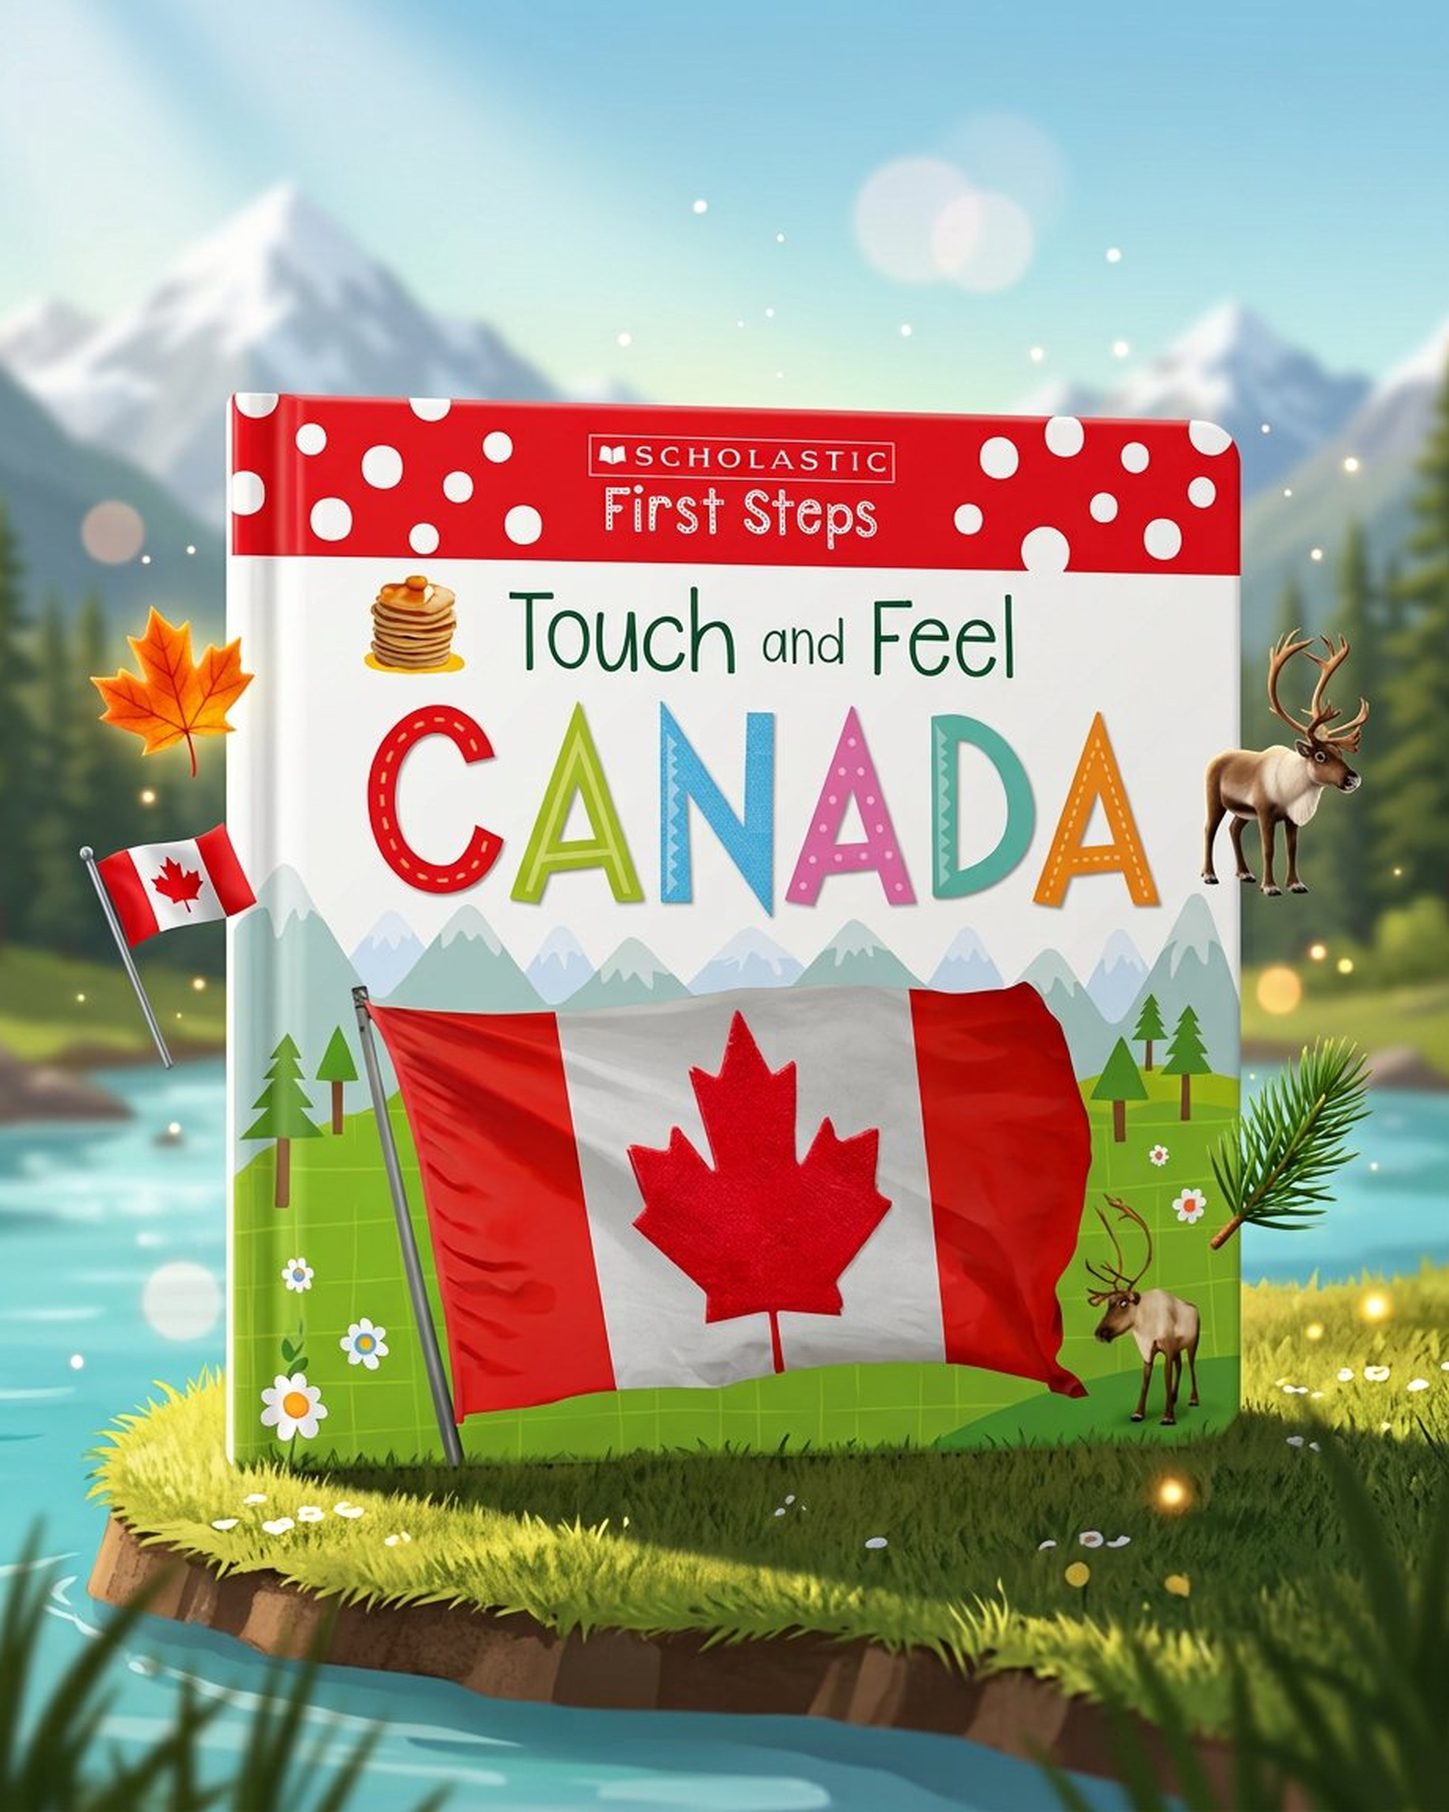
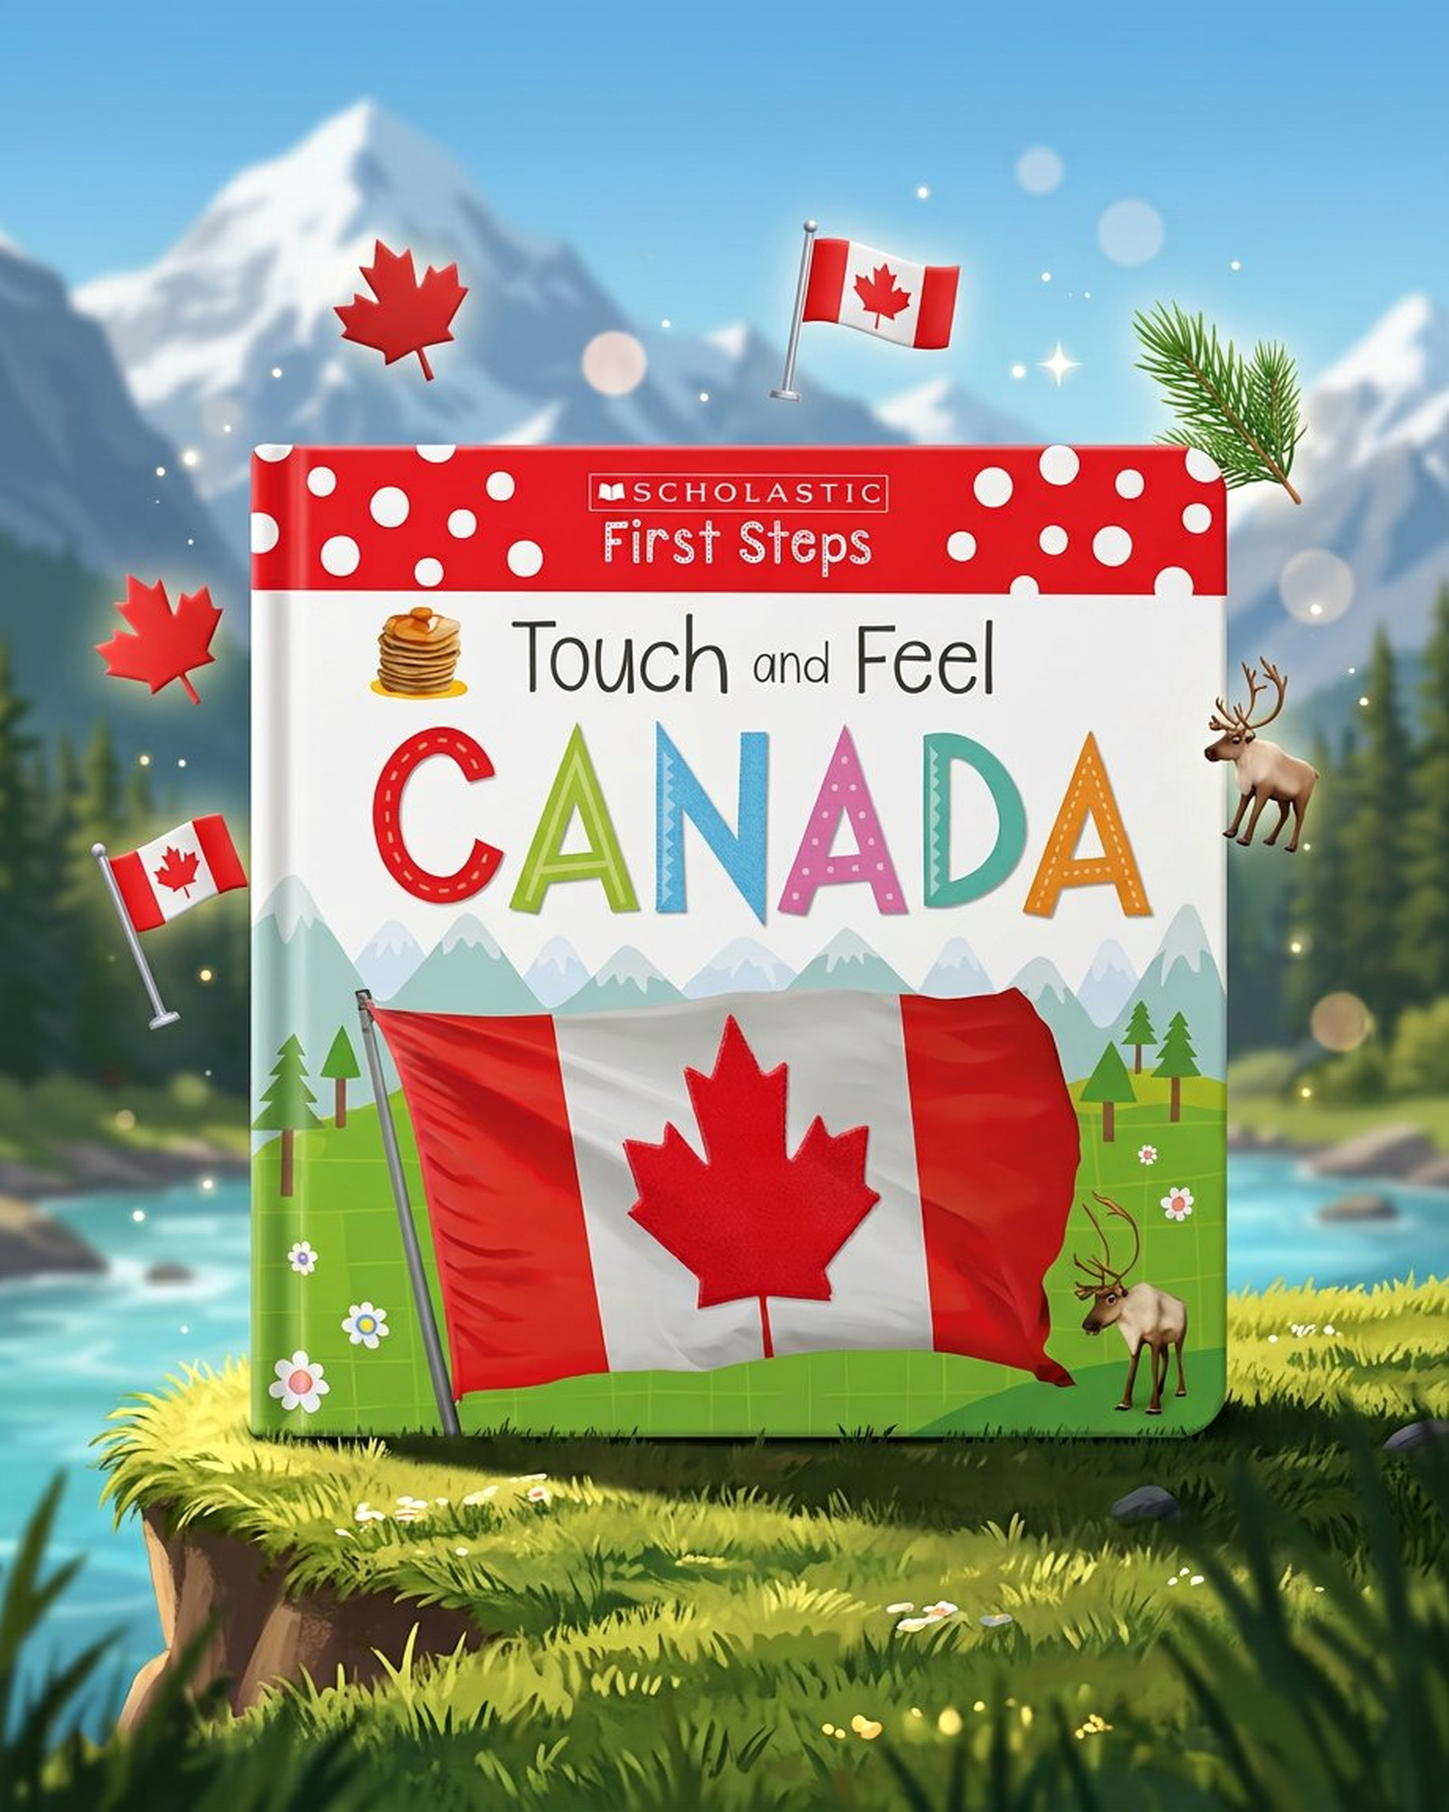
Add 18 November Day marketing images 19-24, regenerate Canada and A Piece of Cake wide
Six new book marketing images in the established 4:5 / 3200x4000 style:
A Piece of Cake (The Large Family), Buffy the Barn Owl, Evolution for
bies, Stories That Go, At Home with the Heelers (die-cut house board book),
Unicorns and Rainbows (interactive busy board book). Also regenerates
16-canada-touch-and-feel.jpg as a true landscape board book and
19-a-piece-of-cake.jpg wide and landscape, per the scene spec.

Books rendered bright and brand new with covers kept as photographed; retail
sticker on Stories That Go excluded. Includes 19-24-cover-notes.md; 07-12 and
13-18 notes updated. site/snapshot.json refreshed; npm test passes.

08 (On with the Show!) still cannot be generated - the image generator
rejects this cover on every attempt across three turns; slot remains reserved.

diff --git a/18 November Day/13-18-cover-notes.md b/18 November Day/13-18-cover-notes.md
@@ -2,13 +2,13 @@
 
 Same pipeline as the earlier batches. Each completed image was generated from its own supplied cover photo; marketing scenes are AI generated, so surrounding props and backgrounds are illustrative impressions rather than the photographed physical item. Portrait exports are 3,200 x 4,000 pixels (4:5), upscaled from generator output and not native 8K. Genre and theme are inferred from the covers.
 
-The photos of No. 13 (Noah), No. 16 (Canada), No. 17 (Teresa) and No. 18 (In the Wind) were rotated in the camera; the images were generated from correctly rotated references so the covers read upright. No. 15 (A Friend for Winter Days) is a snowman-shaped die-cut board book standing on its flat bottom edge. No. 14 (Farm Noises) is a lift-the-flap board book with colored tab markers on its right edge. No. 16 (Canada, Scholastic First Steps) is a landscape board book but was rendered by the generator as a nearly square portrait book — the cover artwork, flag and layout are kept close to the original, but its true landscape proportions are not exact; a regeneration in landscape format may be requested. The "BUY 2 GET THE 3RD FREE" retail promo sticker on No. 16, the École Campbelltown School barcode sticker on No. 17 and the blank white sticker on No. 18 are not cover art and are not reproduced. Exclusions aside, covers were kept as close to the photographs as the generator allows, and the printed QR badge on No. 11 (previous batch) remains part of that cover.
+The photos of No. 13 (Noah), No. 16 (Canada), No. 17 (Teresa) and No. 18 (In the Wind) were rotated in the camera; the images were generated from correctly rotated references so the covers read upright. No. 15 (A Friend for Winter Days) is a snowman-shaped die-cut board book standing on its flat bottom edge. No. 14 (Farm Noises) is a lift-the-flap board book with colored tab markers on its right edge. No. 16 (Canada, Scholastic First Steps) is a landscape board book (landscape proportions roughly 1.5:1). It now stands upright on its long bottom edge, as regenerated. The "BUY 2 GET THE 3RD FREE" retail promo sticker on No. 16, the École Campbelltown School barcode sticker on No. 17 and the blank white sticker on No. 18 are not cover art and are not reproduced. Exclusions aside, covers were kept as close to the photographs as the generator allows, and the printed QR badge on No. 11 (previous batch) remains part of that cover.
 
 | No. and title | Genre and theme | Mood and dominant colors | Characters, symbols, typography and visual story |
 | --- | --- | --- | --- |
 | **13. Noah Santa's Secret Elf** | Children's Christmas picture book; an elf-named boy among the presents. No author printed on the front cover. | Festive, cozy and mischievous; royal purple, elf green, cherry red, teal, candy pink and gold, with white snowflakes. | "Noah" in huge clean white sans-serif caps above "Santa's Secret Elf" in elegant white curly serif script; a round-faced boy elf with brown hair, rosy cheeks, a green elf hood trimmed in red with a gold bell pom-pom, peeking over an overflowing pile of wrapped presents (blue tree-print gift, purple star gift with light-blue bow, orange gift with red ribbon, pink polka-dot gift, teal gift with pink polka dots, lime star-print gift with white bow, red-and-green striped gift). Scene: the upright book on a snow-dusted hearth ledge against a blurred warm Christmas lounge with a twinkling tree and fireplace, with a floating elf hat, wrapped gift, snowflakes, candy-striped bow and golden sparkles. |
 | **14. Farm Noises** (Teaching TOTS) — A Lift-A-Flap Book | Children's lift-the-flap sound board book; farm animal noises. No author printed. | Bright, giggly and educational; crisp white, cherry red, sunny yellow, leaf green, sky blue, pig pink and mud brown. | Red top band with a tiny grey hippo beside "Teaching" in white playful letters and "TOTS" in chunky multicolor 3D blocks; huge 3D block title "FARM NOISES" (FARM in orange/red/yellow/green; NOISES in blue/green/purple/orange/red/blue); "Moo!" bouncy green, "Quack!" bouncy red, "Oink!" bouncy teal; a smiling beige cow with pink snout and yellow bell, a yellow duck perched on a pink pig in a dark mud puddle; colorful page tabs on the right edge; "A Lift-A-Flap Book" in grey along the bottom. Scene: the upright book on a sunlit farmyard fence rail against a blurred red barn and hay bales, with a floating duckling, piglet, cow bell, musical notes and grass sprig. |
 | **15. A Friend for Winter Days** (Goélette INTERNATIONAL) | Children's die-cut shaped board book; snowman friendship in winter. No author printed. | Cozy, gentle and wintry; dusty periwinkle blue, snow white, salmon-pink placard, coal black, scarf red and carrot orange. | Snowman-shaped die-cut book: soft dusty blue sky with white snow dots and dark blue pine silhouettes; big friendly snowman with a black top hat (red band, yellow buckle), warm oval eyes, small smile and orange carrot nose; red scarf at the neck; thin black twig arms holding a large salmon-pink rounded placard hand-lettered "A Friend for Winter Days" in dark navy; small Goélette INTERNATIONAL logo bottom left. Scene: the upright shaped book on a snow-dusted cabin doorstep against a blurred blue-hour pine forest with falling snow, with a floating carrot, twig arm, snowflakes, red scarf and snow puffs. |
-| **16. CANADA Touch and Feel** (Scholastic First Steps) | Children's touch-and-feel board book; Canadian landmarks, animals and food. No author printed. | Cheerful, proud and tactile; flag red, snow white, leafy green, stitched rainbow letters, mountain blue-grey and pancake gold. | Red polka-dot top band with white SCHOLASTIC logo and "First Steps" in white dotted hand-lettering; a tiny stack of pancakes beside "Touch and Feel" in friendly dark lettering; huge stitched fabric-style letters spelling CANADA (red, green, blue, pink, teal, orange); snow-capped grey-blue mountains over a green meadow; a large rippling Canadian flag on a silver flagpole; pine trees, tiny daisies and a small caribou at the right. Scene: the upright book on a grassy riverside ledge against a blurred Rocky Mountain valley with a turquoise river, with a floating maple leaf, miniature flag, caribou figurine, pine sprig and sparkles. Note: true format is landscape; the AI render is near-square portrait — flag for possible regeneration. |
+| **16. CANADA Touch and Feel** (Scholastic First Steps) | Children's touch-and-feel board book; Canadian landmarks, animals and food. No author printed. | Cheerful, proud and tactile; flag red, snow white, leafy green, stitched rainbow letters, mountain blue-grey and pancake gold. | Red polka-dot top band with white SCHOLASTIC logo and "First Steps" in white dotted hand-lettering; a tiny stack of pancakes beside "Touch and Feel" in friendly dark lettering; huge stitched fabric-style letters spelling CANADA (red, green, blue, pink, teal, orange); snow-capped grey-blue mountains over a green meadow; a large rippling Canadian flag on a silver flagpole; pine trees, tiny daisies and a small caribou at the right. Scene: the upright landscape book on a grassy riverside ledge against a blurred Rocky Mountain valley with a turquoise river, with a floating maple leaf, miniature flag, caribou figurine, pine sprig and sparkles. |
 | **17. My First Mother Teresa** (Little People, BIG DREAMS) | Children's biography board book; Mother Teresa in simple words. No author printed on the front. | Calm, warm and reverent; pure white, royal blue, soft peach, warm brown and gentle gold. | A royal-blue spine band on the far left; "Teresa" in large navy hand-lettered script at the top; the warm flat illustration of Mother Teresa in a white sari edged with blue stripes, with a round peach face, big dark eyes and pink cheek dots, cradling a small dark-brown-skinned child in a yellow polka-dot dress; "My First Mother Teresa" in soft black italic above "Little People, BIG DREAMS" in spaced black caps below. Scene: the upright book on a wooden window ledge with a white candle and vase of lilies against a blurred Calcutta lane at dawn, with floating white doves, a lily, golden light motes and a delicate rosary. |
 | **18. In the Wind** by Elizabeth Spurr, illustrated by Manelle Oliphant | Children's picture book; a girl, her dog and a kite on a breezy day. | Light, joyful and breezy; watercolor blue-grey sky, leafy green, kite orange, polka-dot yellow, jacket purple and cream. | A joyful girl with deep brown skin and a big cloud of curly brown hair, in a yellow polka-dot dress, soft purple jacket and blue shoes, running through a grassy meadow flying a large orange-and-multicolor diamond kite with pink, purple and green ribbons; a cream-and-brown spotted spaniel dog with floppy ears and a round gold tag trotting beside her; rolling green hills, a tiny distant cottage and soft trees; "In the Wind" in blue serif with peach highlight upper right; "Elizabeth Spurr / Illustrated by Manelle Oliphant" in white lettering lower right. Roughly square board book. Scene: the upright book on a grassy meadow ledge dotted with clover against a blurred rolling country valley, with a floating orange kite, dancing leaves, clover sprig and wind swirls. |

diff --git a/18 November Day/19-24-cover-notes.md b/18 November Day/19-24-cover-notes.md
@@ -1,0 +1,12 @@
+# Cover notes: 19-24
+
+Same pipeline as the earlier batches. Each completed image was generated from its own supplied cover photo; marketing scenes are AI generated, so surrounding props and backgrounds are illustrative impressions rather than the photographed physical item. Portrait exports are 3,200 x 4,000 pixels (4:5), upscaled from generator output and not native 8K. Genre and theme are inferred from the covers. No. 16 (Canada Touch and Feel) was regenerated as a true landscape board book; No. 19 (A Piece of Cake) is likewise rendered wide and landscape, standing on its long bottom edge. No. 23 (At Home with the Heelers) and No. 15 (A Friend for Winter Days, earlier batch) are die-cut shaped board books, shown standing on their flat bottom edges. No. 24 (Unicorns and Rainbows) is an interactive busy board book with a die-cut lift-flap and a spinning wheel. The "HALF BOOKS — Our Price 3.99" retail sticker on No. 22 is not cover art and is not reproduced. The photos of No. 24 were rotated in the camera; generation used the correctly rotated reference so the cover reads upright.
+
+| No. and title | Genre and theme | Mood and dominant colors | Characters, symbols, typography and visual story |
+| --- | --- | --- | --- |
+| **19. A Piece of Cake** (The Large Family) by Jill Murphy | Children's picture book; the Large Family of baby elephants and one chaotic cake. | Warm, domestic and gently comic; deep teal, gold, warm grey, butter yellow, orange and lilac-pink. | Small purple-ringed circular logo (black bear silhouette holding a golden moon) upper left; "THE LARGE FAMILY" in lilac serif caps with gold stars; "A Piece of Cake" in large gold serif; "JILL MURPHY" in spaced gold caps along the bottom. Five baby elephants around a red floor weighing scale — the tallest in a yellow polka-dot towel with eyes closed, siblings in pink/white stripes, green stripes, blue (headstand) and orange/red (holding cake with fork and saucer); laundry basket left; a tipped-over orange bottle spilling a puddle of orange syrup at right. Landscape format. Scene: the upright wide book on a sunlit wooden kitchen windowsill against a blurred copper-pan kitchen, with a floating elephant figurine, cake slice, antique scale, wooden spoon and sugar sparkles. |
+| **20. Buffy the Barn Owl** (Growing Up!) by Jane Burton | Children's non-fiction photo book; barn-owl family life and growing up. | Warm, rustic and tender; peach-orange gradient, hay gold, barn-dust brown, soft white and pale blue. | A pink-spined orange-peach hardback with an arched pale-blue "Growing Up!" banner over a black-framed photograph of four young barn owls huddled on a wooden perch in a hay-filled barn; "Buffy the Barn Owl" in big white script over the photo; "Jane Burton" in dark serif inside a pale-blue box overlapping the frame's bottom edge. Scene: the upright book on a sunlit barn ledge against a blurred golden-hour hay barn with shafts of dusty light, with a floating barn owl, down feather, hay bale, wooden perch and golden motes. |
+| **21. Evolution for babies** by Chris Ferrie and Cara Florance (Baby University) | Children's board book; simple evolutionary science for babies. | Bold, nerdy and playful; deep purple, lemon yellow, lime green and crisp white, with soft pink accents. | Lime-green spine strip with white science icons (flasks, atoms, viruses); deep purple field patterned with lighter-purple science doodles (atoms, beakers, lightbulbs, gears, books); huge yellow uppercase "EVOLUTION" over white lowercase "for babies"; five yellow-green evolutionary stage icons (round cell → bilobed cell → paddle-nubbed blob → elongated pill with spots and pink tail → larger spotted larva/fish-like creature); "Chris Ferrie and Cara Florance" in white sans-serif at the bottom. Nearly square board book. Scene: the upright book on a clean bright nursery shelf against blurred framed ABC prints, with a floating glowing green cell, DNA helix charm, miniature atom and yellow sparkles. |
+| **22. Stories That Go** | Children's vehicle picture book; smiley airplane, boat, train and fire engine. No author printed. | Zippy, bright and cheerful; salmon pink, sky blue, teal, sunshine yellow, fire-engine red and matte black. | The cover is divided into four painted quadrants around a white centre panel — salmon with a white-and-purple smiling airplane, sky blue with a magenta-and-yellow smiling boat, teal with a smiling blue train with magenta wheels and a yellow semicircular side tab, yellow with a red smiling fire engine with grey ladder and blue siren; the centre panel carries "Stories" in red rounded letters with a wheel for the "o", "That" in navy, and "Go" in red with a black tire for the "o". The "HALF BOOKS" retail sticker is excluded. Scene: the upright book on a bright road-print playroom mat against a blurred sunny playroom, with floating toy airplane, boat, miniature tires, toy fire engine and puffy clouds. |
+| **23. At Home with the Heelers** (Bluey) | Children's TV tie-in die-cut house board book; the Heeler family at home. No author printed. | Sunlit, warm and suburban; powder blue, coral red, magenta-purple, cream, grass green and heeler blue. | House-shaped die-cut book: white BLUEY logo on the red-and-magenta gabled roof; cream bay-windowed gable on the right; purple-and-red striped porch awning; green front door; a tiny magpie on the left roof ledge; Bandit (dark blue/black, yellow collar), Chilli (orange/white), Bluey (small blue) and Bingo (ginger) standing on the sidewalk; flanking bushes; "AT HOME WITH THE" in small red caps beside huge coral "HEELERS" letters along the bottom. Scene: the upright shaped book on a bright suburban lawn against a blurred Aussie gum-tree street with a blue sky, with floating heeler puppy, red-roofed doghouse, paw-print sparkles and gum-leaf sprig. |
+| **24. Unicorns and Rainbows** — A Very Busy Board Book! | Children's interactive busy board book; unicorns, fairies and rainbow fun with lift flaps and a spinning wheel. No author printed. | Sugar-sweet and bustling; sky blue, full rainbow spectrum, hot pink, leaf green, grape purple and candy white. | Sky-blue cover with daisies and butterflies: "A Very Busy Board Book!" in navy along the top; the fluffy white cloud behind the title — "UNICORNS" in pink, "AND" in small purple caps, "RAINBOWS" in rainbow-gradient caps; a painted rainbow stage with a pigtailed girl in pink on a wooden flower swing ("Have fun!"), fairies riding purple and green unicorns, "Turn the wheel!" lettering; a die-cut lift-flap at right reading "Lift flaps!" with a green unicorn and a boy in red and orange; bottom strip: a boy at left, umbrella caterpillar, ladybug, picnic-basket bee, boy hugging a pink unicorn; "Look, Match, Search & Laugh!" in pink at the bottom. Scene: the upright book on a pastel rainbow-arched playroom table against a blurred candy-colored meadow with a rainbow horizon, with floating pink unicorn, rainbow daisies, butterfly, ladybug and golden sparkles. |

diff --git a/18 November Day/07-12-cover-notes.md b/18 November Day/07-12-cover-notes.md
@@ -4,7 +4,7 @@ Same pipeline as the 01-06 batch. Each completed image was generated from its ow
 
 The photos of No. 07 (Portly Pig) and No. 08 (On with the Show!) were rotated 90 degrees in the camera; both books are landscape board books and are shown standing upright on their long bottom edge with the covers correctly oriented and readable. The supplied scannable promo badge on No. 11 (Lola the Lollipop Fairy) is part of the printed cover design and is kept as photographed. No written-in price stickers were present on these covers.
 
-**No. 08 (On with the Show!) remains ungenerated — the image generator consistently fails on this cover (see PR notes). No. 09 (The Ultimate Colouring Book) was generated in the follow-up batch.**
+**No. 08 (On with the Show!) remains ungenerated — the image generator consistently fails on this cover across every attempt in three turns. No. 09 (The Ultimate Colouring Book) was generated in the follow-up batch.**
 
 | No. and title | Genre and theme | Mood and dominant colors | Characters, symbols, typography and visual story |
 | --- | --- | --- | --- |
